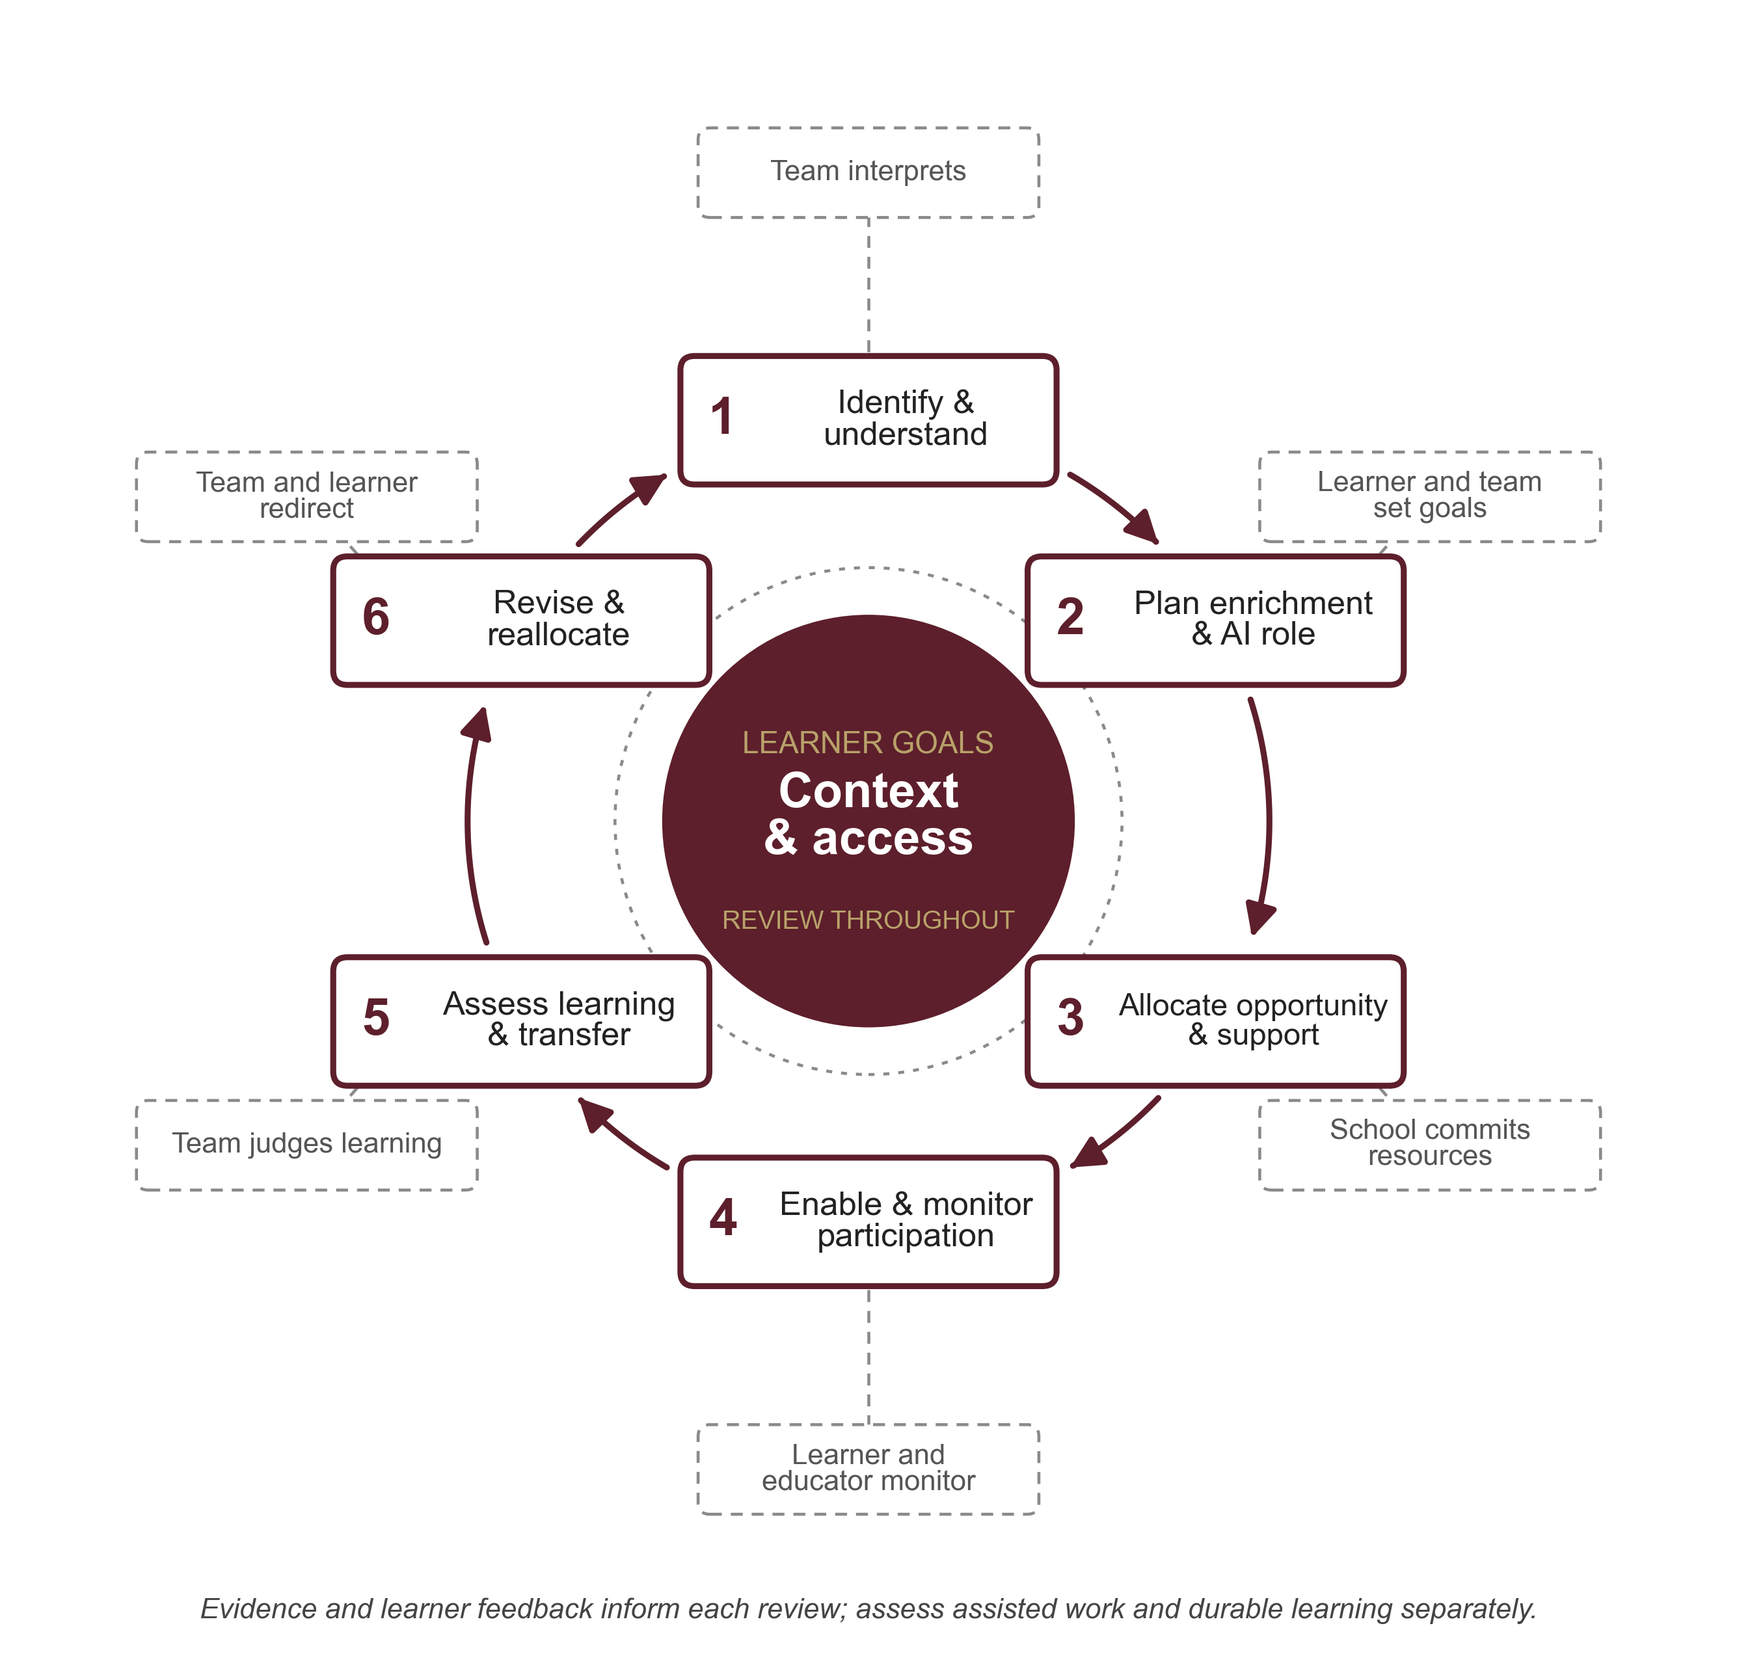
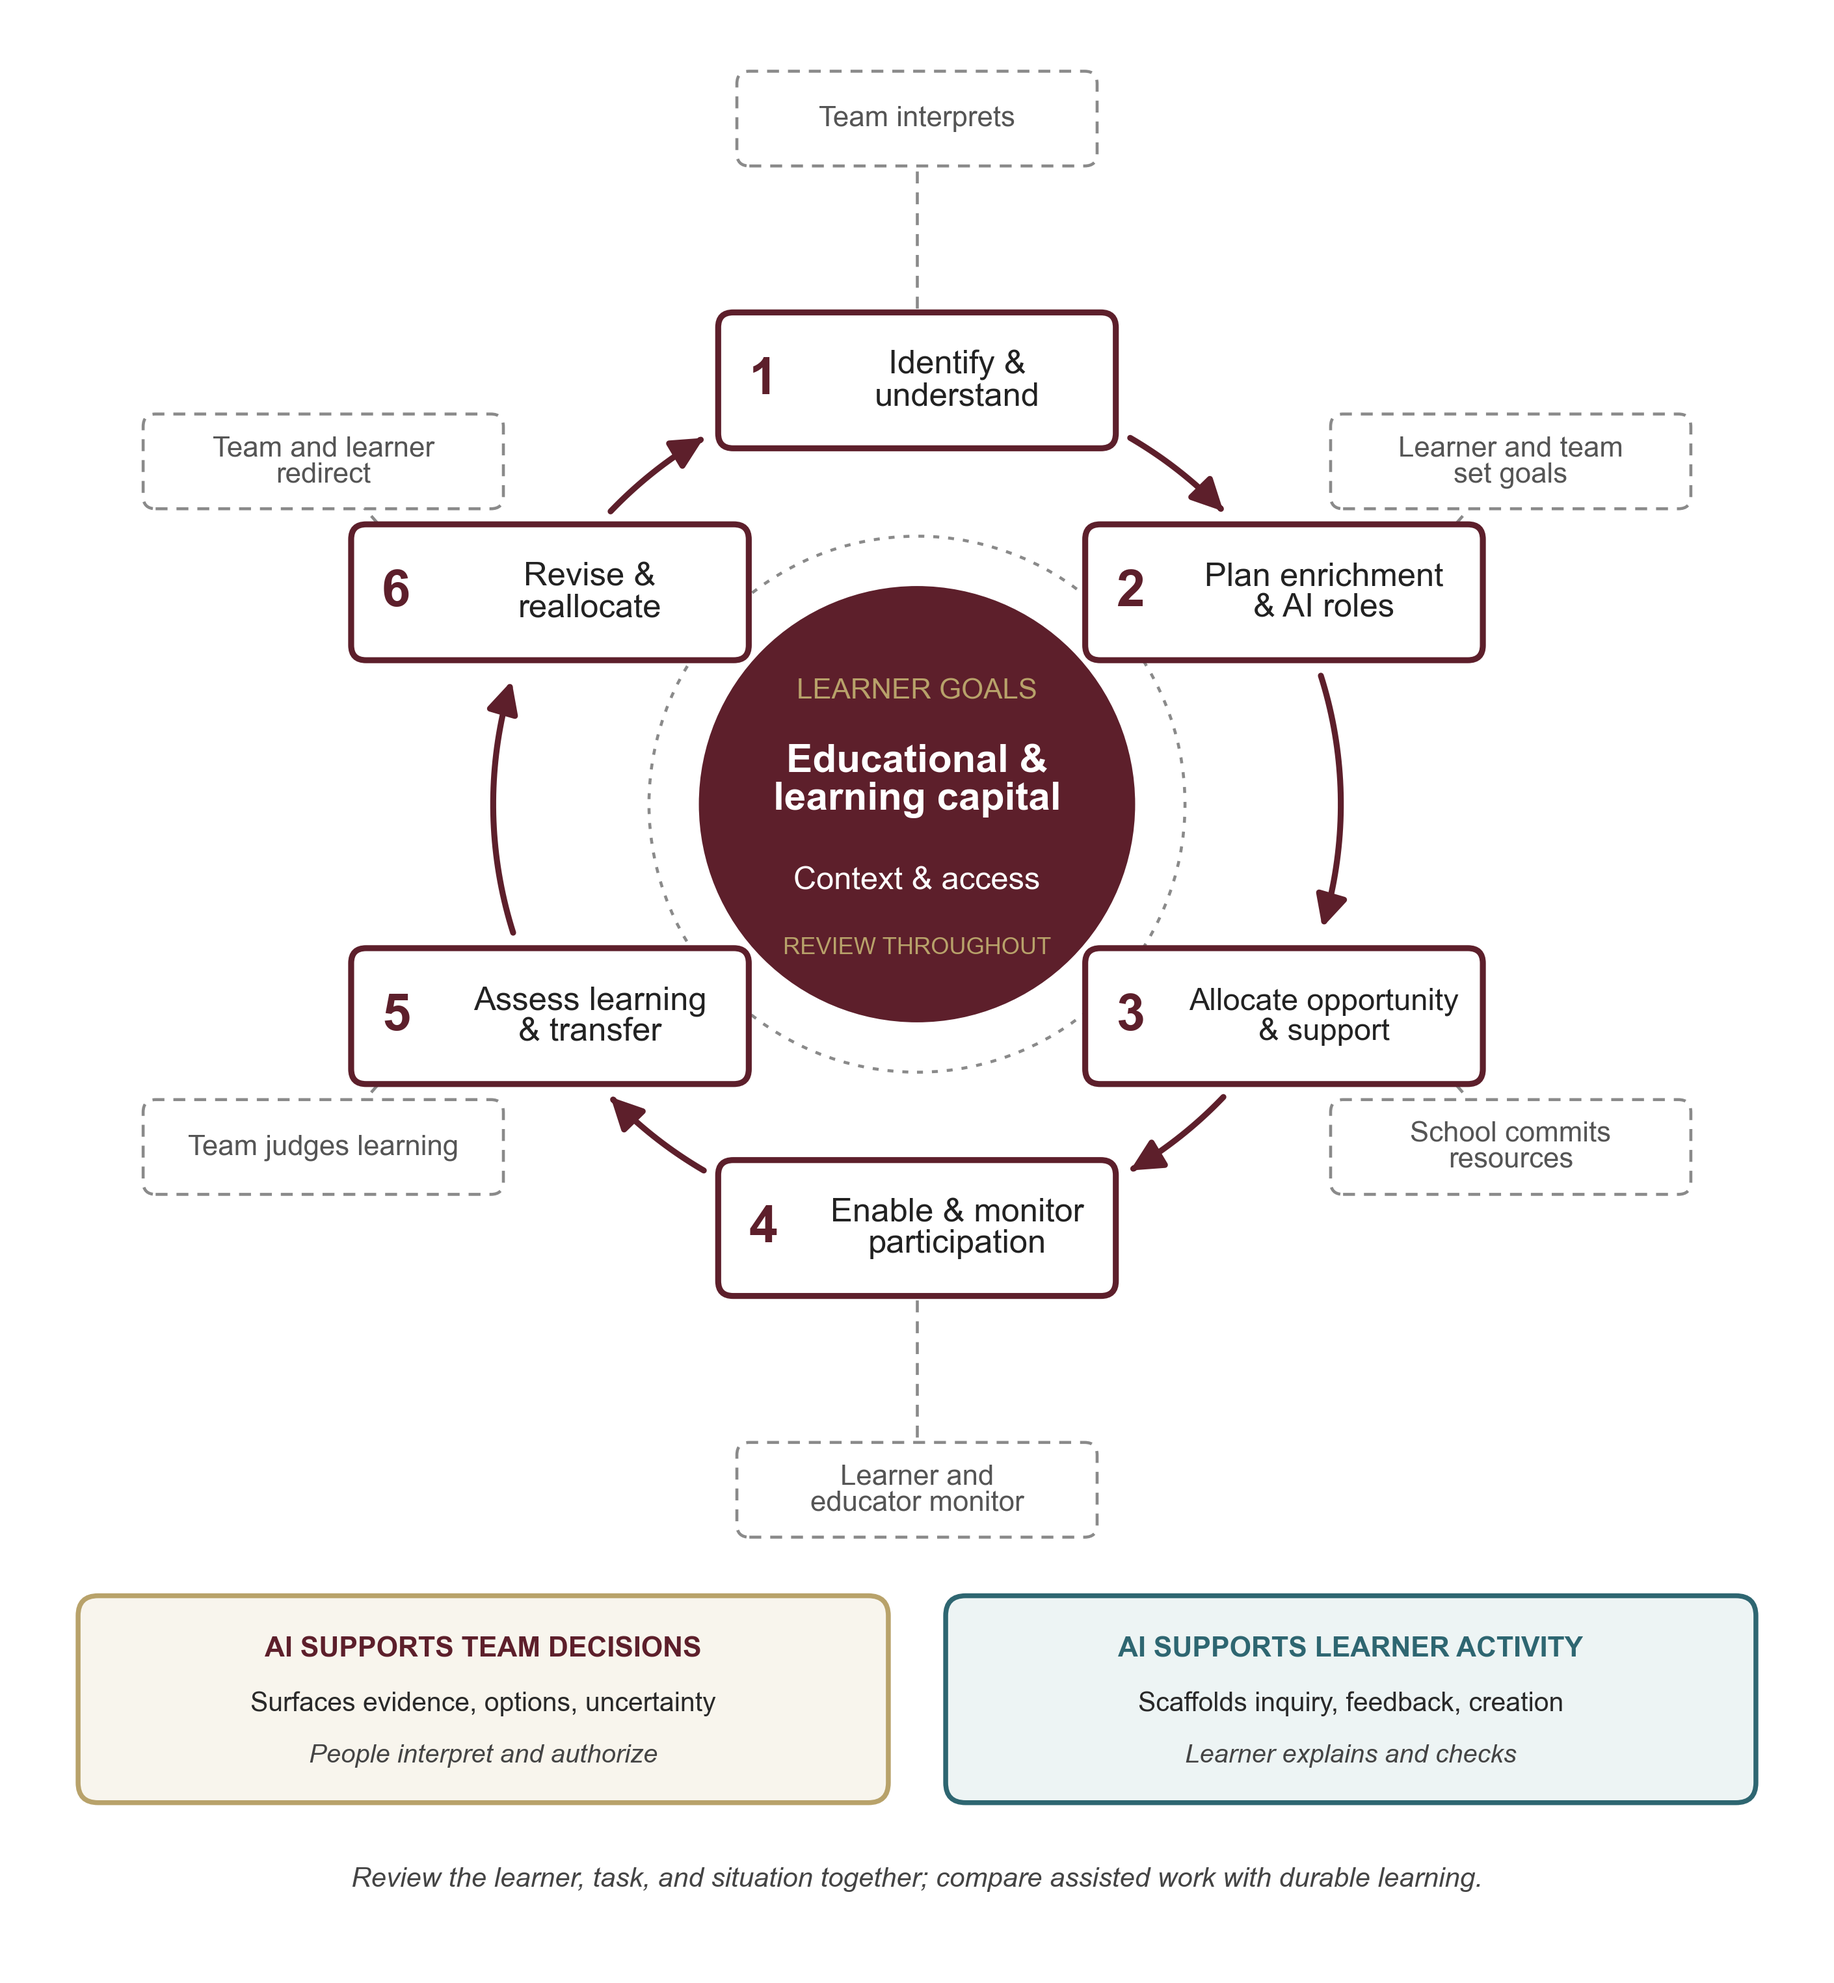
Show both AI roles in talent-management figure

Changed region(s): [[0.0622, 0.1553, 0.9326, 0.9941], [0.4352, 0.0311, 0.5596, 0.1243], [0.9326, 0.8077, 0.9637, 0.9009]]

diff --git a/index.html b/index.html
@@ -37,8 +37,8 @@ nav{flex-wrap:wrap}.chat-heading{display:flex;justify-content:space-between;alig
 <nav id="site-nav" aria-label="Main navigation"><button id="home-tab" class="active" aria-pressed="true">Home</button><button id="workspace-tab" aria-pressed="false">Explore a learner</button><button id="library-tab" aria-pressed="false">Evidence library</button><button id="chat-tab" aria-pressed="false">Ask AchieveGo</button><button id="about-tab" aria-pressed="false">Research & connection</button></nav>
 <section id="workspace-view">
 <section class="model-overview" aria-labelledby="model-title">
-<figure class="model-figure"><a href="assets/figure1_tm_cycle.png" target="_blank" rel="noopener" aria-label="Open Figure 1 at full size"><img src="assets/figure1_tm_cycle.png" width="2670" height="2543" alt="Talent-management cycle around learner goals, context, and access: identify and understand; plan enrichment and AI's role; allocate opportunity and support; enable and monitor participation; assess learning and transfer; revise and reallocate. Educators and learners interpret and review throughout."></a><figcaption>Figure 1. The talent-management cycle in the age of AI. Proposed conceptual synthesis by Parra-Martínez and Desmet. <a href="assets/figure1_tm_cycle.png" target="_blank" rel="noopener">Open full-size figure ↗</a></figcaption></figure>
-<div class="model-copy"><p class="eyebrow">THE FRAMEWORK</p><h2 id="model-title">Why a continuing cycle?</h2><p>Our <a href="https://doi.org/10.3389/fpsyg.2023.1141159" target="_blank" rel="noopener">bibliometric study</a> mapped talent-identification research across education, sport, and management, including work that extends beyond initial selection (Parra-Martínez &amp; Wai, 2023). The <a href="https://doi.org/10.1080/13598139.2012.679085" target="_blank" rel="noopener">actiotope model</a> treats gifted performance as developing through the interaction of a learner's actions, goals, and environment (Ziegler &amp; Phillipson, 2012). A <a href="https://doi.org/10.1177/00169862261448147" target="_blank" rel="noopener">situated account of gifted underachievement</a> examines person × task × situation dynamics and links diagnosis with intervention (Dai &amp; Desmet, 2026).</p><p>Figure 1 brings these ideas together as a proposed cycle: teams plan opportunities and supports, observe what happens, assess learning, and revise the environment or plan with the learner. The cycle guides this prototype; its learner-to-intervention matching rules still require validation.</p></div>
+<figure class="model-figure"><a href="assets/figure1_tm_cycle.png" target="_blank" rel="noopener" aria-label="Open Figure 1 at full size"><img src="assets/figure1_tm_cycle.png" width="2820" height="3049" alt="Six-step talent-management cycle centered on learner goals, educational and learning capital, context, and access. AI supports team decisions by surfacing evidence, options, and uncertainty; AI also supports learner activity through inquiry, feedback, and creation. People retain decisions and assess assisted work alongside durable learning."></a><figcaption>Figure 1. The talent-management cycle in the age of AI. Proposed conceptual synthesis by Parra-Martínez and Desmet. <a href="assets/figure1_tm_cycle.png" target="_blank" rel="noopener">Open full-size figure ↗</a></figcaption></figure>
+<div class="model-copy"><p class="eyebrow">THE FRAMEWORK</p><h2 id="model-title">Why a continuing cycle?</h2><p>Our <a href="https://doi.org/10.3389/fpsyg.2023.1141159" target="_blank" rel="noopener">bibliometric study</a> mapped talent-identification research across education, sport, and management, including work that extends beyond initial selection (Parra-Martínez &amp; Wai, 2023). The <a href="https://doi.org/10.1080/13598139.2012.679085" target="_blank" rel="noopener">actiotope model</a> treats gifted performance as developing through the interaction of a learner's actions, goals, and environment (Ziegler &amp; Phillipson, 2012). A <a href="https://doi.org/10.1177/00169862261448147" target="_blank" rel="noopener">situated account of gifted underachievement</a> examines person × task × situation dynamics and links diagnosis with intervention (Dai &amp; Desmet, 2026).</p><p>Figure 1 brings these ideas together as a proposed cycle. AI has two bounded roles: it can surface evidence, options, and uncertainty for team decisions, and it can scaffold learners' inquiry, feedback, and creation during enrichment. Educators and learners retain responsibility for goals, interpretation, and judging whether assisted work becomes durable learning. The cycle guides this prototype; its learner-to-intervention matching rules still require validation.</p></div>
 </section>
 <div class="workspace" id="learner-workspace"><aside>
 <p class="eyebrow">01 · LEARNER CONTEXT</p><h2>Begin with a learner scenario</h2><p class="muted">Every scenario is fictional. Change the context to see which evidence enters the team's review and which gaps remain.</p>

diff --git a/src/template.html b/src/template.html
@@ -13,8 +13,8 @@
 <nav id="site-nav" aria-label="Main navigation"><button id="home-tab" class="active" aria-pressed="true">Home</button><button id="workspace-tab" aria-pressed="false">Explore a learner</button><button id="library-tab" aria-pressed="false">Evidence library</button><button id="chat-tab" aria-pressed="false">Ask AchieveGo</button><button id="about-tab" aria-pressed="false">Research & connection</button></nav>
 <section id="workspace-view">
 <section class="model-overview" aria-labelledby="model-title">
-<figure class="model-figure"><a href="assets/figure1_tm_cycle.png" target="_blank" rel="noopener" aria-label="Open Figure 1 at full size"><img src="assets/figure1_tm_cycle.png" width="2670" height="2543" alt="Talent-management cycle around learner goals, context, and access: identify and understand; plan enrichment and AI's role; allocate opportunity and support; enable and monitor participation; assess learning and transfer; revise and reallocate. Educators and learners interpret and review throughout."></a><figcaption>Figure 1. The talent-management cycle in the age of AI. Proposed conceptual synthesis by Parra-Martínez and Desmet. <a href="assets/figure1_tm_cycle.png" target="_blank" rel="noopener">Open full-size figure ↗</a></figcaption></figure>
-<div class="model-copy"><p class="eyebrow">THE FRAMEWORK</p><h2 id="model-title">Why a continuing cycle?</h2><p>Our <a href="https://doi.org/10.3389/fpsyg.2023.1141159" target="_blank" rel="noopener">bibliometric study</a> mapped talent-identification research across education, sport, and management, including work that extends beyond initial selection (Parra-Martínez &amp; Wai, 2023). The <a href="https://doi.org/10.1080/13598139.2012.679085" target="_blank" rel="noopener">actiotope model</a> treats gifted performance as developing through the interaction of a learner's actions, goals, and environment (Ziegler &amp; Phillipson, 2012). A <a href="https://doi.org/10.1177/00169862261448147" target="_blank" rel="noopener">situated account of gifted underachievement</a> examines person × task × situation dynamics and links diagnosis with intervention (Dai &amp; Desmet, 2026).</p><p>Figure 1 brings these ideas together as a proposed cycle: teams plan opportunities and supports, observe what happens, assess learning, and revise the environment or plan with the learner. The cycle guides this prototype; its learner-to-intervention matching rules still require validation.</p></div>
+<figure class="model-figure"><a href="assets/figure1_tm_cycle.png" target="_blank" rel="noopener" aria-label="Open Figure 1 at full size"><img src="assets/figure1_tm_cycle.png" width="2820" height="3049" alt="Six-step talent-management cycle centered on learner goals, educational and learning capital, context, and access. AI supports team decisions by surfacing evidence, options, and uncertainty; AI also supports learner activity through inquiry, feedback, and creation. People retain decisions and assess assisted work alongside durable learning."></a><figcaption>Figure 1. The talent-management cycle in the age of AI. Proposed conceptual synthesis by Parra-Martínez and Desmet. <a href="assets/figure1_tm_cycle.png" target="_blank" rel="noopener">Open full-size figure ↗</a></figcaption></figure>
+<div class="model-copy"><p class="eyebrow">THE FRAMEWORK</p><h2 id="model-title">Why a continuing cycle?</h2><p>Our <a href="https://doi.org/10.3389/fpsyg.2023.1141159" target="_blank" rel="noopener">bibliometric study</a> mapped talent-identification research across education, sport, and management, including work that extends beyond initial selection (Parra-Martínez &amp; Wai, 2023). The <a href="https://doi.org/10.1080/13598139.2012.679085" target="_blank" rel="noopener">actiotope model</a> treats gifted performance as developing through the interaction of a learner's actions, goals, and environment (Ziegler &amp; Phillipson, 2012). A <a href="https://doi.org/10.1177/00169862261448147" target="_blank" rel="noopener">situated account of gifted underachievement</a> examines person × task × situation dynamics and links diagnosis with intervention (Dai &amp; Desmet, 2026).</p><p>Figure 1 brings these ideas together as a proposed cycle. AI has two bounded roles: it can surface evidence, options, and uncertainty for team decisions, and it can scaffold learners' inquiry, feedback, and creation during enrichment. Educators and learners retain responsibility for goals, interpretation, and judging whether assisted work becomes durable learning. The cycle guides this prototype; its learner-to-intervention matching rules still require validation.</p></div>
 </section>
 <div class="workspace" id="learner-workspace"><aside>
 <p class="eyebrow">01 · LEARNER CONTEXT</p><h2>Begin with a learner scenario</h2><p class="muted">Every scenario is fictional. Change the context to see which evidence enters the team's review and which gaps remain.</p>
